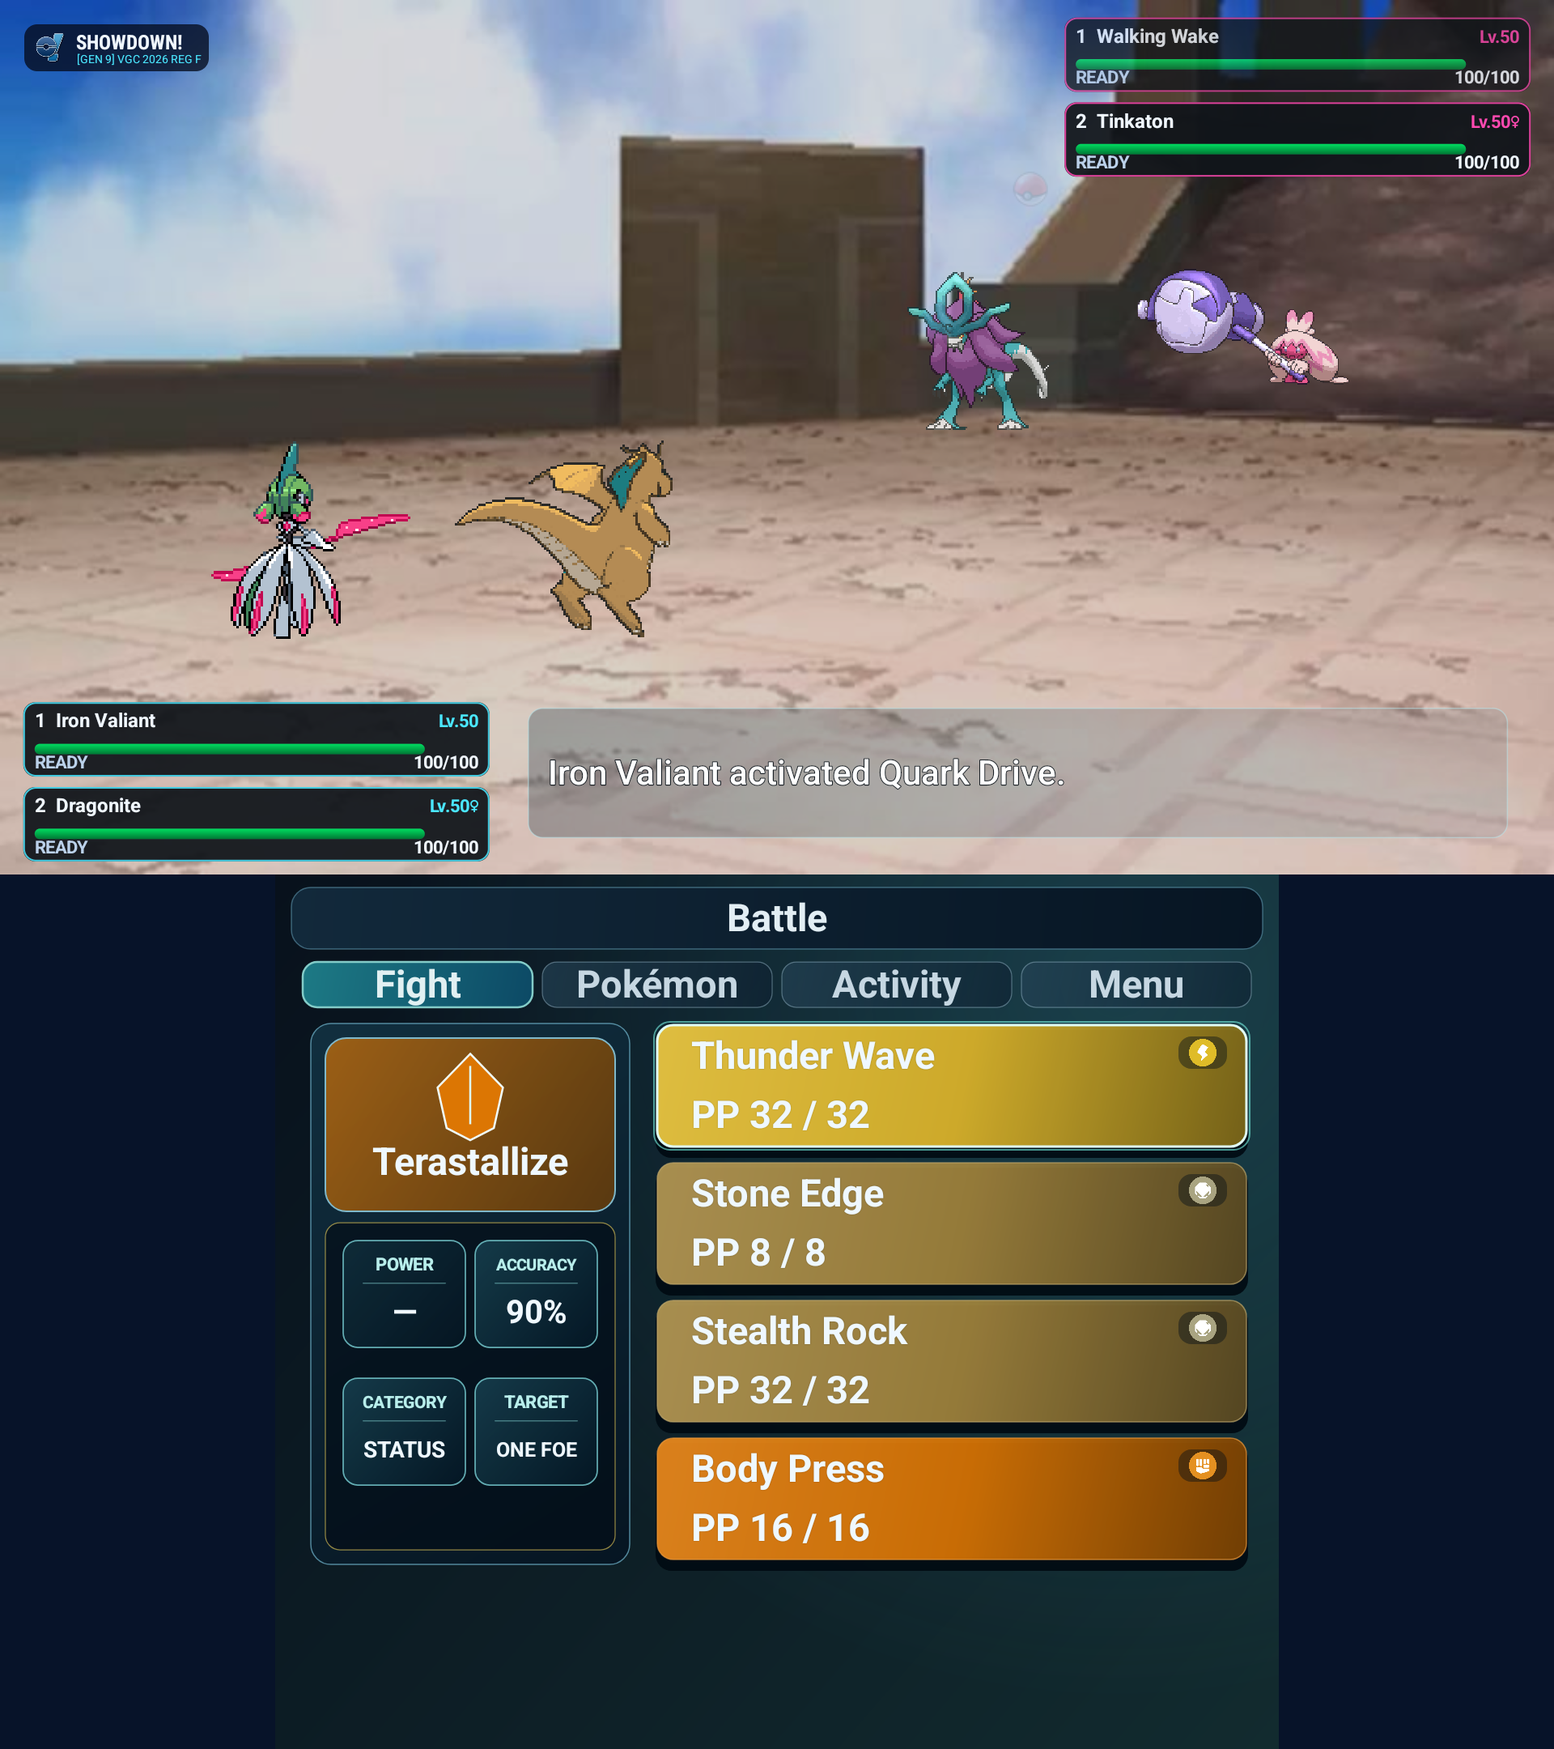
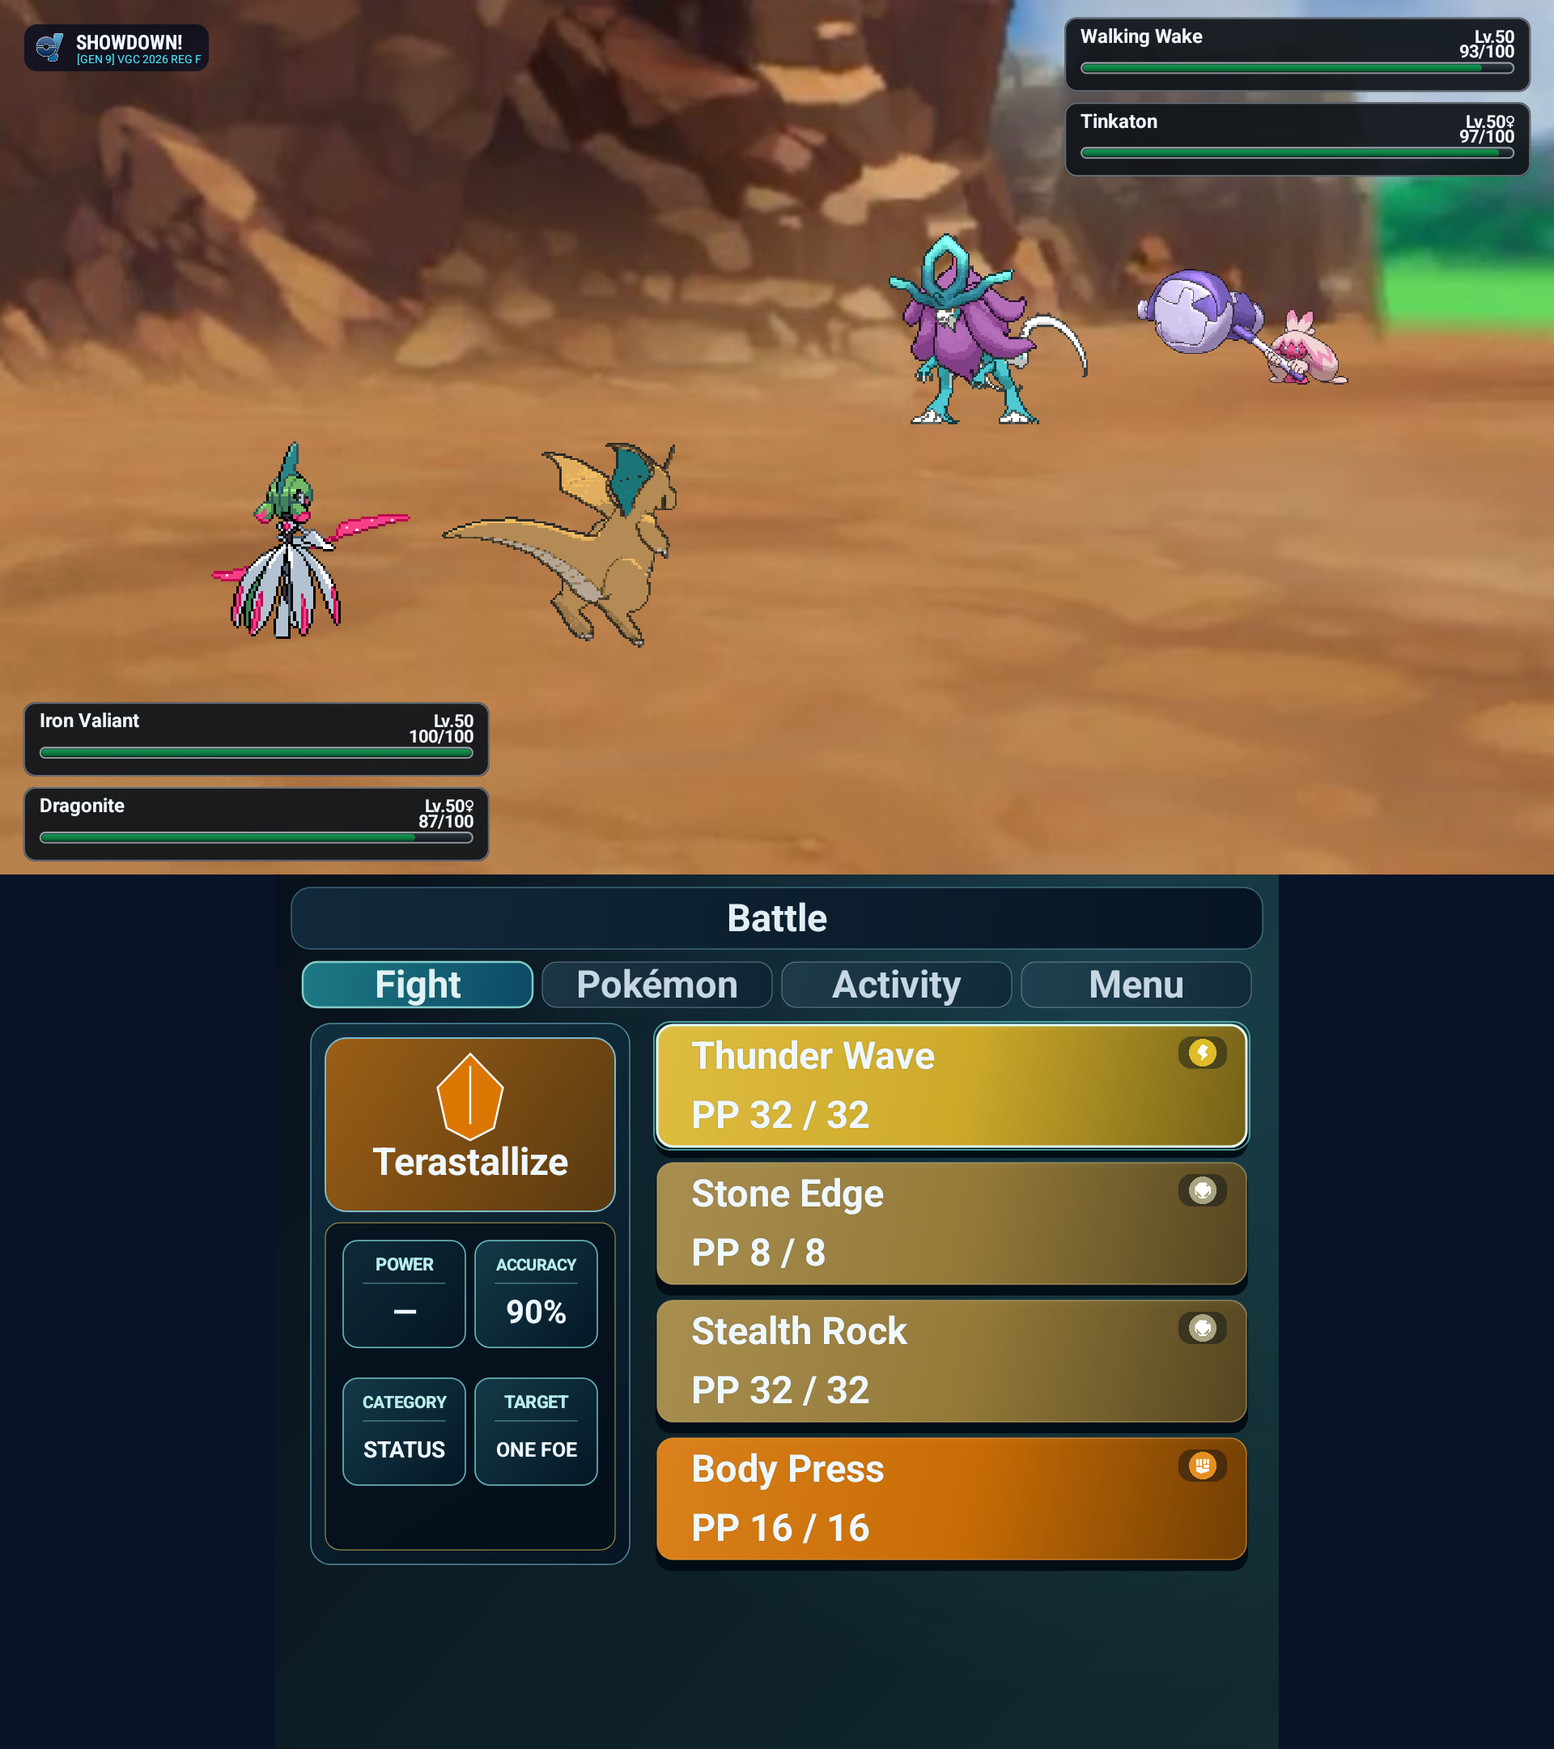
fix: align compact battle cards across formats

diff --git a/app/src/main/kotlin/dev/adrian/showdown/BattleSceneView.kt b/app/src/main/kotlin/dev/adrian/showdown/BattleSceneView.kt
@@ -156,12 +156,8 @@ class BattleSceneView(
                         canvas,
                         RectF(width * 0.015f, height * 0.80f, width * 0.315f, height * 0.98f),
                         session.playerName,
-                        BattleSession.displayPokemonName(session.playerDetails().name, session.playerDetails().species),
-                        session.playerLevel,
-                        session.playerGender,
+                        session.playerDetails(),
                         session.playerHp,
-                        session.playerCondition,
-                        session.playerHealthFraction(),
                         scale,
                         playerStatusAlpha,
                         playerTrainerSprite,
@@ -178,12 +174,8 @@ class BattleSceneView(
                         canvas,
                         RectF(width * 0.685f, height * 0.02f, width * 0.985f, height * 0.20f),
                         session.opponentName,
-                        BattleSession.displayPokemonName(session.opponentDetails().name, session.opponentDetails().species),
-                        session.opponentLevel,
-                        session.opponentGender,
+                        session.opponentDetails(),
                         session.opponentHp,
-                        session.opponentCondition,
-                        session.opponentHealthFraction(),
                         scale,
                         opponentStatusAlpha,
                         opponentTrainerSprite,
@@ -695,12 +687,8 @@ class BattleSceneView(
         canvas: Canvas,
         bounds: RectF,
         trainer: String,
-        pokemon: String,
-        level: String,
-        gender: String,
+        details: BattleSession.PokemonDetails,
         hp: String,
-        condition: String,
-        fraction: Float,
         scale: Float,
         alpha: Float,
         trainerSprite: ShowdownSpriteCache.SpriteAsset?,
@@ -709,6 +697,7 @@ class BattleSceneView(
     ) {
         val layer = canvas.saveLayerAlpha(bounds, (alpha * 255f).toInt())
         val height = bounds.height()
+        val content = BattleCardContent.from(details, hp)
         paint.color = Color.argb(232, 16, 20, 26)
         canvas.drawRoundRect(bounds, height * 0.15f, height * 0.15f, paint)
         paint.style = Paint.Style.STROKE
@@ -728,18 +717,18 @@ class BattleSceneView(
         val textLeft = if (trainerAtStart) portraitBounds.right + 10f * scale else bounds.left + 20f * scale
         val textRight = if (trainerAtStart) bounds.right - 20f * scale else portraitBounds.left - 10f * scale
         paint.typeface = android.graphics.Typeface.create("sans-serif", android.graphics.Typeface.BOLD)
-        val levelLabel = "Lv.$level$gender"
+        val levelLabel = content.levelLabel
         paint.textSize = height * 0.19f
         val levelWidth = paint.measureText(levelLabel)
         val nameAvailableWidth = (textRight - textLeft - levelWidth - 12f * scale).coerceAtLeast(0f)
         var nameTextSize = height * 0.27f
         while (nameTextSize > height * 0.15f) {
             paint.textSize = nameTextSize
-            if (paint.measureText(pokemon) <= nameAvailableWidth) break
+            if (paint.measureText(content.title) <= nameAvailableWidth) break
             nameTextSize -= scale
         }
         paint.textSize = nameTextSize
-        val displayedPokemon = ellipsizeToWidth(pokemon, nameAvailableWidth, paint)
+        val displayedPokemon = ellipsizeToWidth(content.title, nameAvailableWidth, paint)
         paint.color = INK
         canvas.drawText(displayedPokemon, textLeft, bounds.top + height * 0.29f, paint)
         paint.textAlign = Paint.Align.RIGHT
@@ -750,7 +739,7 @@ class BattleSceneView(
         paint.typeface = android.graphics.Typeface.create("sans-serif", android.graphics.Typeface.NORMAL)
         paint.textSize = height * 0.17f
         paint.color = MUTED
-        val hpLabel = hp.substringBefore(' ')
+        val hpLabel = content.hpLabel
         val hpWidth = paint.measureText(hpLabel)
         val trainerAvailableWidth = (textRight - textLeft - hpWidth - 12f * scale).coerceAtLeast(0f)
         canvas.drawText(
@@ -766,31 +755,7 @@ class BattleSceneView(
         val barTop = bounds.top + height * 0.55f
         val barBottom = barTop + height * 0.15f
         val track = RectF(textLeft, barTop, textRight, barBottom)
-        paint.shader = LinearGradient(track.left, track.top, track.left, track.bottom, Color.rgb(55, 63, 72), Color.rgb(12, 17, 22), Shader.TileMode.CLAMP)
-        canvas.drawRoundRect(track, height * 0.07f, height * 0.07f, paint)
-        paint.shader = null
-        paint.style = Paint.Style.STROKE
-        paint.strokeWidth = 2f * scale
-        paint.color = Color.argb(150, 229, 238, 245)
-        canvas.drawRoundRect(RectF(track.left + scale, track.top + scale, track.right - scale, track.bottom - scale), height * 0.06f, height * 0.06f, paint)
-        paint.style = Paint.Style.FILL
-        val inner = RectF(track.left + 3f * scale, track.top + 3f * scale, track.right - 3f * scale, track.bottom - 3f * scale)
-        val colors = healthColors(fraction)
-        val hpRight = inner.left + inner.width() * fraction
-        if (hpRight > inner.left) {
-            val fill = RectF(inner.left, inner.top, hpRight, inner.bottom)
-            paint.shader = LinearGradient(
-                fill.left,
-                fill.top,
-                fill.left,
-                fill.bottom,
-                intArrayOf(colors.highlight, colors.fill, colors.shadow),
-                floatArrayOf(0f, 0.54f, 1f),
-                Shader.TileMode.CLAMP
-            )
-            canvas.drawRoundRect(fill, height * 0.045f, height * 0.045f, paint)
-            paint.shader = null
-        }
+        drawHealthBar(canvas, track, content.fraction, scale, height * 0.07f)
         val ballSize = height * 0.17f
         val ballGap = ballSize * 0.12f
         val ballStart = textRight - ballSize * 6f - ballGap * 5f
@@ -821,8 +786,6 @@ class BattleSceneView(
                     canvas,
                     RectF(cardLeft, firstTop + index * (cardHeight + cardGap), cardRight, firstTop + index * (cardHeight + cardGap) + cardHeight),
                     combatant,
-                    index,
-                    player,
                     scale,
                     alpha
                 )
@@ -834,64 +797,72 @@ class BattleSceneView(
         canvas: Canvas,
         bounds: RectF,
         combatant: BattleSession.ActiveCombatant,
-        index: Int,
-        player: Boolean,
         scale: Float,
         alpha: Float
     ) {
         val layer = canvas.saveLayerAlpha(bounds, (alpha * 255f).toInt())
-        val accent = if (player) CYAN else MAGENTA
         val height = bounds.height()
+        val content = BattleCardContent.from(combatant)
         paint.color = Color.argb(238, 16, 20, 26)
         canvas.drawRoundRect(bounds, height * 0.16f, height * 0.16f, paint)
         paint.style = Paint.Style.STROKE
         paint.strokeWidth = 2f * scale
-        paint.color = Color.argb(220, Color.red(accent), Color.green(accent), Color.blue(accent))
+        paint.color = Color.rgb(104, 111, 120)
         canvas.drawRoundRect(RectF(bounds.left + scale, bounds.top + scale, bounds.right - scale, bounds.bottom - scale), height * 0.16f, height * 0.16f, paint)
         paint.style = Paint.Style.FILL
-        val left = bounds.left + 14f * scale
-        val right = bounds.right - 14f * scale
-        val label = "${index + 1}  ${BattleSession.displayPokemonName(combatant.name, combatant.species)}${when {
-            combatant.gMaxed -> " · G-MAX"
-            combatant.dynamaxed -> " · MAX"
-            else -> ""
-        }}"
+        paint.textAlign = Paint.Align.LEFT
+        val left = bounds.left + 20f * scale
+        val right = bounds.right - 20f * scale
         paint.typeface = android.graphics.Typeface.create("sans-serif", android.graphics.Typeface.BOLD)
         paint.textSize = readableTextSize(height * 0.25f, scale, 10.5f)
         paint.color = INK
-        canvas.drawText(ellipsizeToWidth(label, right - left - 92f * scale, paint), left, bounds.top + height * 0.34f, paint)
+        val titleSize = paint.textSize
         paint.textAlign = Paint.Align.RIGHT
         paint.textSize = readableTextSize(height * 0.19f, scale, 9.5f)
-        paint.color = accent
-        canvas.drawText("Lv.${combatant.level}${combatant.gender}", right, bounds.top + height * 0.34f, paint)
+        val levelWidth = paint.measureText(content.levelLabel)
+        paint.color = INK
+        canvas.drawText(content.levelLabel, right, bounds.top + height * 0.34f, paint)
         paint.textAlign = Paint.Align.LEFT
-        val track = RectF(left, bounds.top + height * 0.56f, right - 66f * scale, bounds.top + height * 0.70f)
-        paint.color = Color.rgb(47, 55, 65)
-        canvas.drawRoundRect(track, height * 0.08f, height * 0.08f, paint)
-        val fraction = healthFraction(combatant.hp)
-        val colors = healthColors(fraction)
-        val fill = RectF(track.left, track.top, track.left + track.width() * fraction, track.bottom)
-        if (fill.right > fill.left) {
-            paint.shader = LinearGradient(fill.left, fill.top, fill.left, fill.bottom, colors.highlight, colors.shadow, Shader.TileMode.CLAMP)
-            canvas.drawRoundRect(fill, height * 0.08f, height * 0.08f, paint)
-            paint.shader = null
-        }
-        paint.textSize = readableTextSize(height * 0.18f, scale, 9.5f)
-        paint.color = if (combatant.condition == "READY") MUTED else Color.rgb(255, 192, 103)
-        canvas.drawText(combatant.condition, left, bounds.top + height * 0.89f, paint)
+        paint.textSize = titleSize
+        val titleWidth = (right - left - levelWidth - 16f * scale).coerceAtLeast(0f)
+        canvas.drawText(ellipsizeToWidth(content.title, titleWidth, paint), left, bounds.top + height * 0.34f, paint)
         paint.textAlign = Paint.Align.RIGHT
         paint.textSize = readableTextSize(height * 0.18f, scale, 9.5f)
         paint.color = INK
-        canvas.drawText(combatant.hp.substringBefore(' '), right, bounds.top + height * 0.89f, paint)
+        canvas.drawText(content.hpLabel, right, bounds.top + height * 0.54f, paint)
         paint.textAlign = Paint.Align.LEFT
+        val track = RectF(left, bounds.top + height * 0.60f, right, bounds.top + height * 0.76f)
+        drawHealthBar(canvas, track, content.fraction, scale, height * 0.08f)
         canvas.restoreToCount(layer)
     }
 
-    private fun healthFraction(condition: String): Float {
-        val values = condition.substringBefore(' ').split('/', limit = 2)
-        val current = values.getOrNull(0)?.toFloatOrNull() ?: return if (condition.contains("FNT", true)) 0f else 1f
-        val maximum = values.getOrNull(1)?.toFloatOrNull() ?: return 1f
-        return if (maximum > 0f) (current / maximum).coerceIn(0f, 1f) else 0f
+    private fun drawHealthBar(canvas: Canvas, track: RectF, fraction: Float, scale: Float, radius: Float) {
+        paint.style = Paint.Style.FILL
+        paint.shader = LinearGradient(track.left, track.top, track.left, track.bottom, Color.rgb(55, 63, 72), Color.rgb(12, 17, 22), Shader.TileMode.CLAMP)
+        canvas.drawRoundRect(track, radius, radius, paint)
+        paint.shader = null
+        paint.style = Paint.Style.STROKE
+        paint.strokeWidth = 2f * scale
+        paint.color = Color.argb(150, 229, 238, 245)
+        canvas.drawRoundRect(RectF(track.left + scale, track.top + scale, track.right - scale, track.bottom - scale), radius * 0.86f, radius * 0.86f, paint)
+        paint.style = Paint.Style.FILL
+        val inner = RectF(track.left + 3f * scale, track.top + 3f * scale, track.right - 3f * scale, track.bottom - 3f * scale)
+        val colors = healthColors(fraction)
+        val hpRight = inner.left + inner.width() * fraction
+        if (hpRight > inner.left) {
+            val fill = RectF(inner.left, inner.top, hpRight, inner.bottom)
+            paint.shader = LinearGradient(
+                fill.left,
+                fill.top,
+                fill.left,
+                fill.bottom,
+                intArrayOf(colors.highlight, colors.fill, colors.shadow),
+                floatArrayOf(0f, 0.54f, 1f),
+                Shader.TileMode.CLAMP
+            )
+            canvas.drawRoundRect(fill, radius * 0.65f, radius * 0.65f, paint)
+            paint.shader = null
+        }
     }
 
     private fun readableTextSize(designPixels: Float, scale: Float, minimumSp: Float = 12f): Float = maxOf(

diff --git a/app/src/main/kotlin/dev/adrian/showdown/BattleCardContent.kt b/app/src/main/kotlin/dev/adrian/showdown/BattleCardContent.kt
@@ -1,0 +1,51 @@
+package dev.adrian.showdown
+
+data class BattleCardContent(
+    val title: String,
+    val levelLabel: String,
+    val hpLabel: String,
+    val fraction: Float
+) {
+    companion object {
+        fun from(details: BattleSession.PokemonDetails) = from(
+            name = details.name,
+            species = details.species,
+            level = details.level,
+            gender = details.gender,
+            hp = details.hp
+        )
+
+        fun from(details: BattleSession.PokemonDetails, hp: String) = from(
+            name = details.name,
+            species = details.species,
+            level = details.level,
+            gender = details.gender,
+            hp = hp
+        )
+
+        fun from(combatant: BattleSession.ActiveCombatant) = from(
+            name = combatant.name,
+            species = combatant.species,
+            level = combatant.level,
+            gender = combatant.gender,
+            hp = combatant.hp
+        )
+
+        fun from(name: String, species: String, level: String, gender: String, hp: String) = BattleCardContent(
+            title = BattleSession.displayPokemonName(name, species),
+            levelLabel = "Lv.$level$gender",
+            hpLabel = hp.substringBefore(' '),
+            fraction = fraction(hp)
+        )
+
+        private fun fraction(hp: String): Float {
+            val value = hp.substringBefore(' ')
+            if (hp.contains("fnt", true)) return 0f
+            if (value.endsWith('%')) return (value.dropLast(1).toFloatOrNull()?.div(100f) ?: 1f).coerceIn(0f, 1f)
+            val values = value.split('/', limit = 2)
+            val current = values.getOrNull(0)?.toFloatOrNull() ?: return 1f
+            val maximum = values.getOrNull(1)?.toFloatOrNull() ?: return 1f
+            return if (maximum > 0f) (current / maximum).coerceIn(0f, 1f) else 0f
+        }
+    }
+}

diff --git a/app/src/test/kotlin/dev/adrian/showdown/BattleCardContentTest.kt b/app/src/test/kotlin/dev/adrian/showdown/BattleCardContentTest.kt
@@ -1,0 +1,51 @@
+package dev.adrian.showdown
+
+import org.junit.Assert.assertEquals
+import org.junit.Test
+
+class BattleCardContentTest {
+    @Test
+    fun compactAndSingleCardsUseTheSameReadablePokemonIdentity() {
+        val single = BattleSession.PokemonDetails(
+            name = "Alcremie-Caramel-Swirl",
+            species = "Alcremie",
+            types = listOf("FAIRY"),
+            level = "50",
+            gender = "♀",
+            hp = "100/100",
+            condition = "100/100",
+            ability = "Sweet Veil",
+            item = "Leftovers",
+            moves = emptyList(),
+            stats = ""
+        )
+        val compact = BattleSession.ActiveCombatant(
+            slot = "p1a",
+            name = single.name,
+            species = single.species,
+            types = single.types,
+            level = single.level,
+            gender = single.gender,
+            hp = single.hp,
+            condition = single.condition,
+            entryAtNanos = 0L,
+            dynamaxed = true
+        )
+
+        val singleContent = BattleCardContent.from(single)
+        val compactContent = BattleCardContent.from(compact)
+        val liveSingleContent = BattleCardContent.from(single, "87/100")
+
+        assertEquals(singleContent, compactContent)
+        assertEquals(singleContent.title, liveSingleContent.title)
+        assertEquals(singleContent.levelLabel, liveSingleContent.levelLabel)
+        assertEquals("87/100", liveSingleContent.hpLabel)
+    }
+
+    @Test
+    fun faintedCardsHaveAnEmptyHealthBar() {
+        val content = BattleCardContent.from("Iron Valiant", "Iron Valiant", "50", "", "0 fnt")
+
+        assertEquals(0f, content.fraction, 0.001f)
+    }
+}

diff --git a/app/src/main/kotlin/dev/adrian/showdown/ShowdownChangelog.kt b/app/src/main/kotlin/dev/adrian/showdown/ShowdownChangelog.kt
@@ -59,7 +59,8 @@ object ShowdownChangelog {
                 "Native battle effects now use Showdown's set-HP delta when deciding whether to play direct damage audio, keeping healing silent.",
                 "Multi-target set-HP packets now update every active Pokémon and keep each impact feedback event attached to the right target.",
                 "Active form updates and custom end-of-Terastal packets now restore Pokémon details and original types correctly.",
-                "Battle sprite requests now carry their battle side explicitly, keeping player-side Iron Valiant artwork rear-facing in every battle layout."
+                "Battle sprite requests now carry their battle side explicitly, keeping player-side Iron Valiant artwork rear-facing in every battle layout.",
+                "Compact doubles and triples HP cards now share the cleaned single-battle layout with readable species names, HP values, and bars."
             )
         ),
         ShowdownChangelogEntry(
